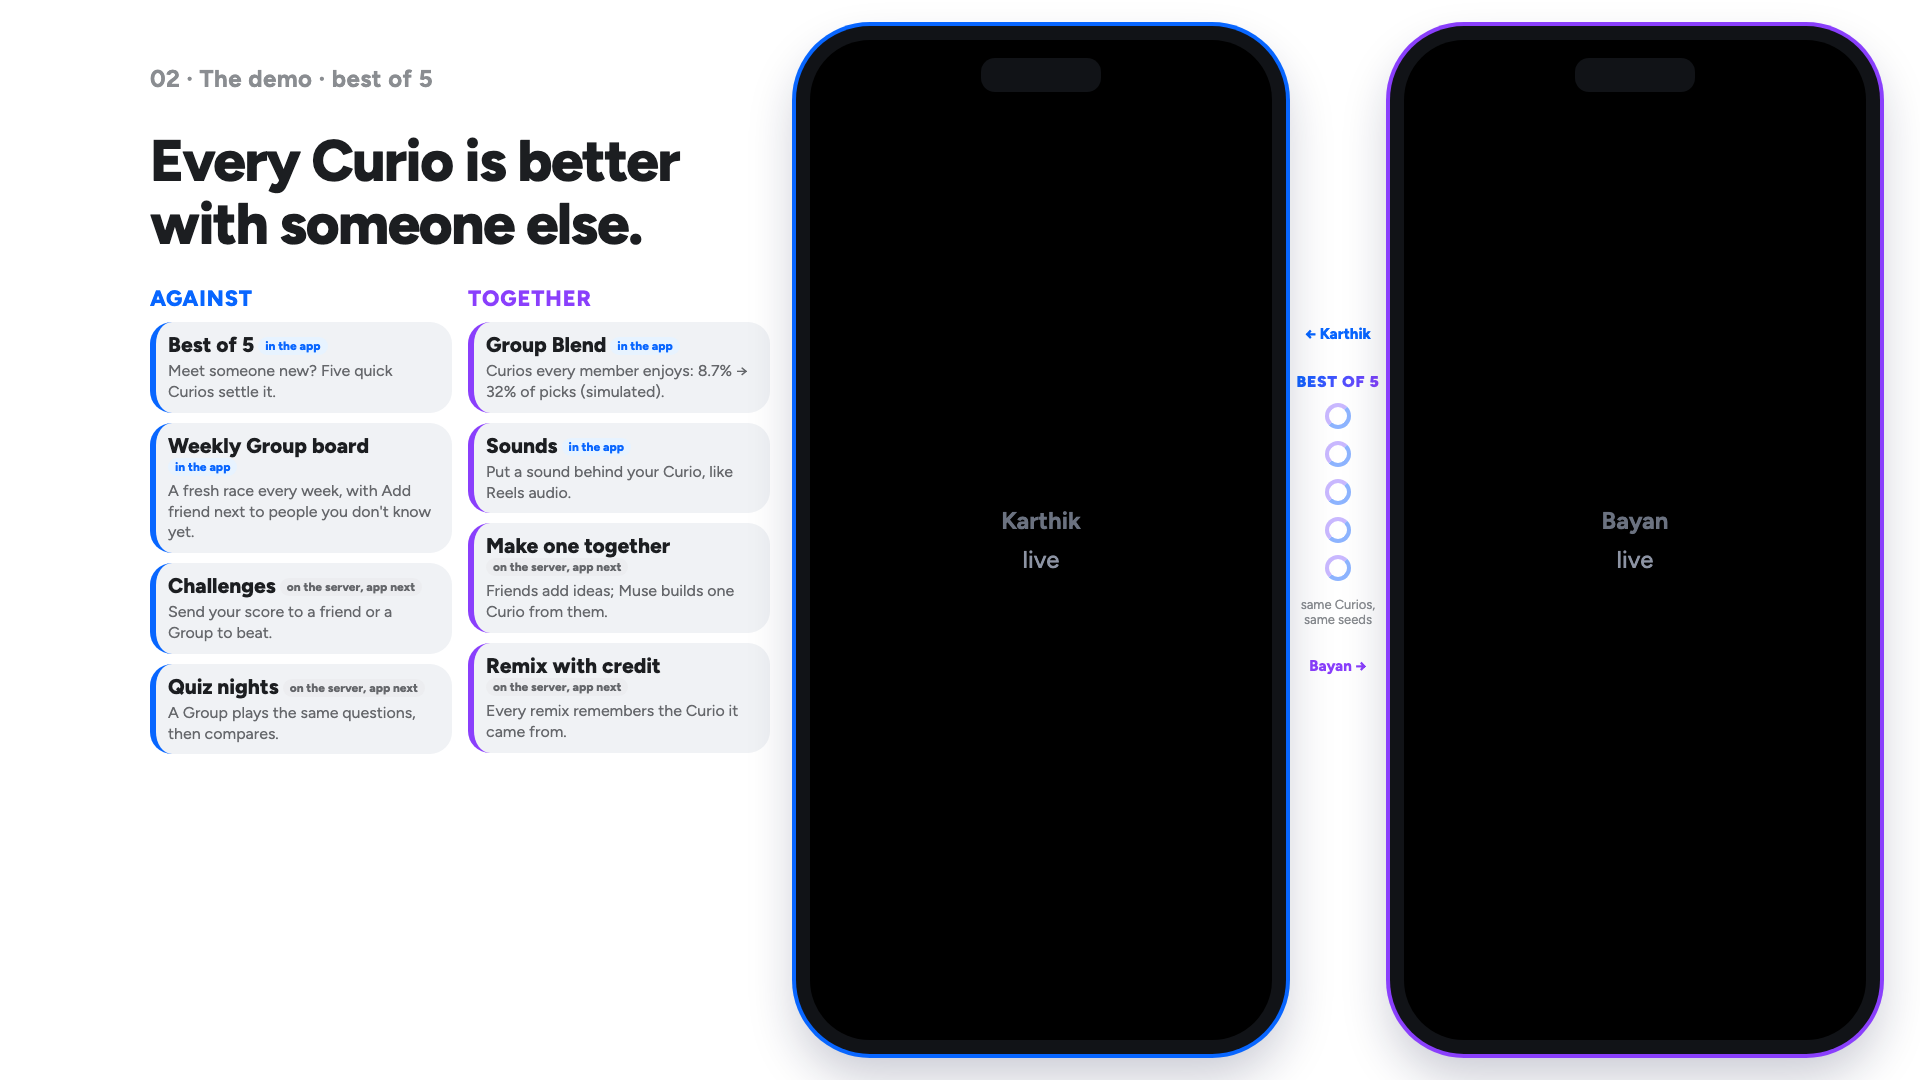
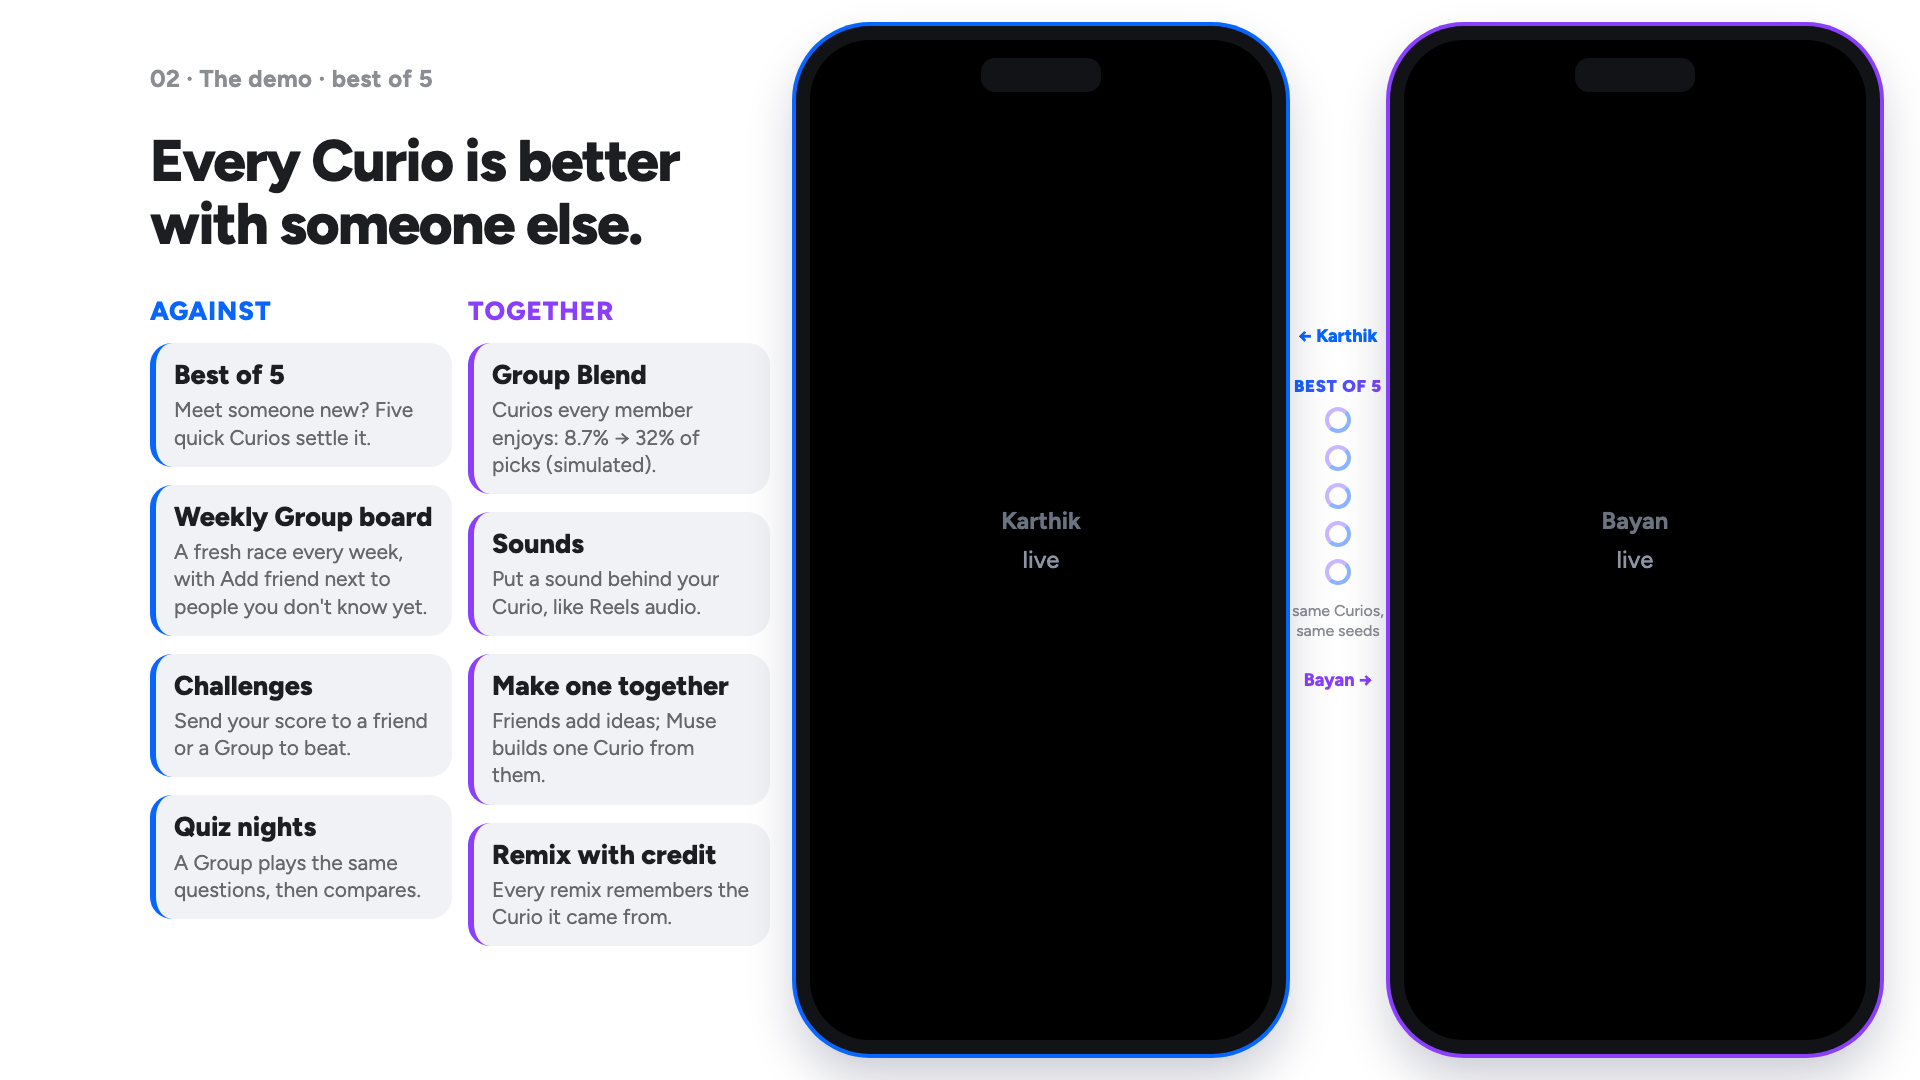
Slide 11: drop the in-the-app / on-the-server chips; bigger card and best-of-5 text (Karthik's ask)

diff --git a/docs/pr/slides/deck.html b/docs/pr/slides/deck.html
@@ -684,6 +684,9 @@ h2 { font-size: 96px; line-height: 1.04; font-weight: 800; letter-spacing: -.025
 .collab .crow { margin-top: 30px; } .collab .cgrid { flex: none; width: 620px; column-gap: 16px; row-gap: 10px; }
 .collab .ccol { gap: 10px; } .collab .ch { font-size: 22px; }
 .collab .cf { padding: 10px 12px; border-left-width: 6px; } .collab .cf b { font-size: 21px; } .collab .cf p { font-size: 16px; margin-top: 4px; } .collab .cf .chip { font-size: 12px; padding: 2px 7px; margin-left: 0; display: inline-block; vertical-align: 2px; }
+.collab .crow { margin-top: 40px; } .collab .cgrid { row-gap: 16px; } .collab .ccol { gap: 18px; } .collab .ch { font-size: 26px; }
+.collab .cf { padding: 16px 18px; } .collab .cf b { font-size: 27px; line-height: 1.15; } .collab .cf p { font-size: 21px; line-height: 1.3; margin-top: 6px; }
+.collab .bo5 em { font-size: 17px; } .collab .bo5 i { font-size: 16px; } .collab .bo5 .who { font-size: 18px; }
 </style>
 </head>
 <body>
@@ -844,8 +847,8 @@ h2 { font-size: 96px; line-height: 1.04; font-weight: 800; letter-spacing: -.025
   <div class="crow">
     <div class="cgrid">
       <div class="ch c">Against</div><div class="ch v">Together</div>
-      <div class="ccol"><div class="cf c"><b>Best of 5</b> <span class="chip app">in the app</span><p>Meet someone new? Five quick Curios settle it.</p></div><div class="cf c"><b>Weekly Group board</b> <span class="chip app">in the app</span><p>A fresh race every week, with Add friend next to people you don't know yet.</p></div><div class="cf c"><b>Challenges</b> <span class="chip srv">on the server, app next</span><p>Send your score to a friend or a Group to beat.</p></div><div class="cf c"><b>Quiz nights</b> <span class="chip srv">on the server, app next</span><p>A Group plays the same questions, then compares.</p></div></div>
-      <div class="ccol"><div class="cf v"><b>Group Blend</b> <span class="chip app">in the app</span><p>Curios every member enjoys: 8.7% → 32% of picks (simulated).</p></div><div class="cf v"><b>Sounds</b> <span class="chip app">in the app</span><p>Put a sound behind your Curio, like Reels audio.</p></div><div class="cf v"><b>Make one together</b> <span class="chip srv">on the server, app next</span><p>Friends add ideas; Muse builds one Curio from them.</p></div><div class="cf v"><b>Remix with credit</b> <span class="chip srv">on the server, app next</span><p>Every remix remembers the Curio it came from.</p></div></div>
+      <div class="ccol"><div class="cf c"><b>Best of 5</b><p>Meet someone new? Five quick Curios settle it.</p></div><div class="cf c"><b>Weekly Group board</b><p>A fresh race every week, with Add friend next to people you don't know yet.</p></div><div class="cf c"><b>Challenges</b><p>Send your score to a friend or a Group to beat.</p></div><div class="cf c"><b>Quiz nights</b><p>A Group plays the same questions, then compares.</p></div></div>
+      <div class="ccol"><div class="cf v"><b>Group Blend</b><p>Curios every member enjoys: 8.7% → 32% of picks (simulated).</p></div><div class="cf v"><b>Sounds</b><p>Put a sound behind your Curio, like Reels audio.</p></div><div class="cf v"><b>Make one together</b><p>Friends add ideas; Muse builds one Curio from them.</p></div><div class="cf v"><b>Remix with credit</b><p>Every remix remembers the Curio it came from.</p></div></div>
     </div>
     <div class="ccr duo">
       <figure class="phn a"><div class="lp iph"><div class="scr" id="lpscr"><i class="di"></i>Karthik<br><small>live</small></div></div><figcaption><b>Karthik</b>Karthik's phone</figcaption></figure>
